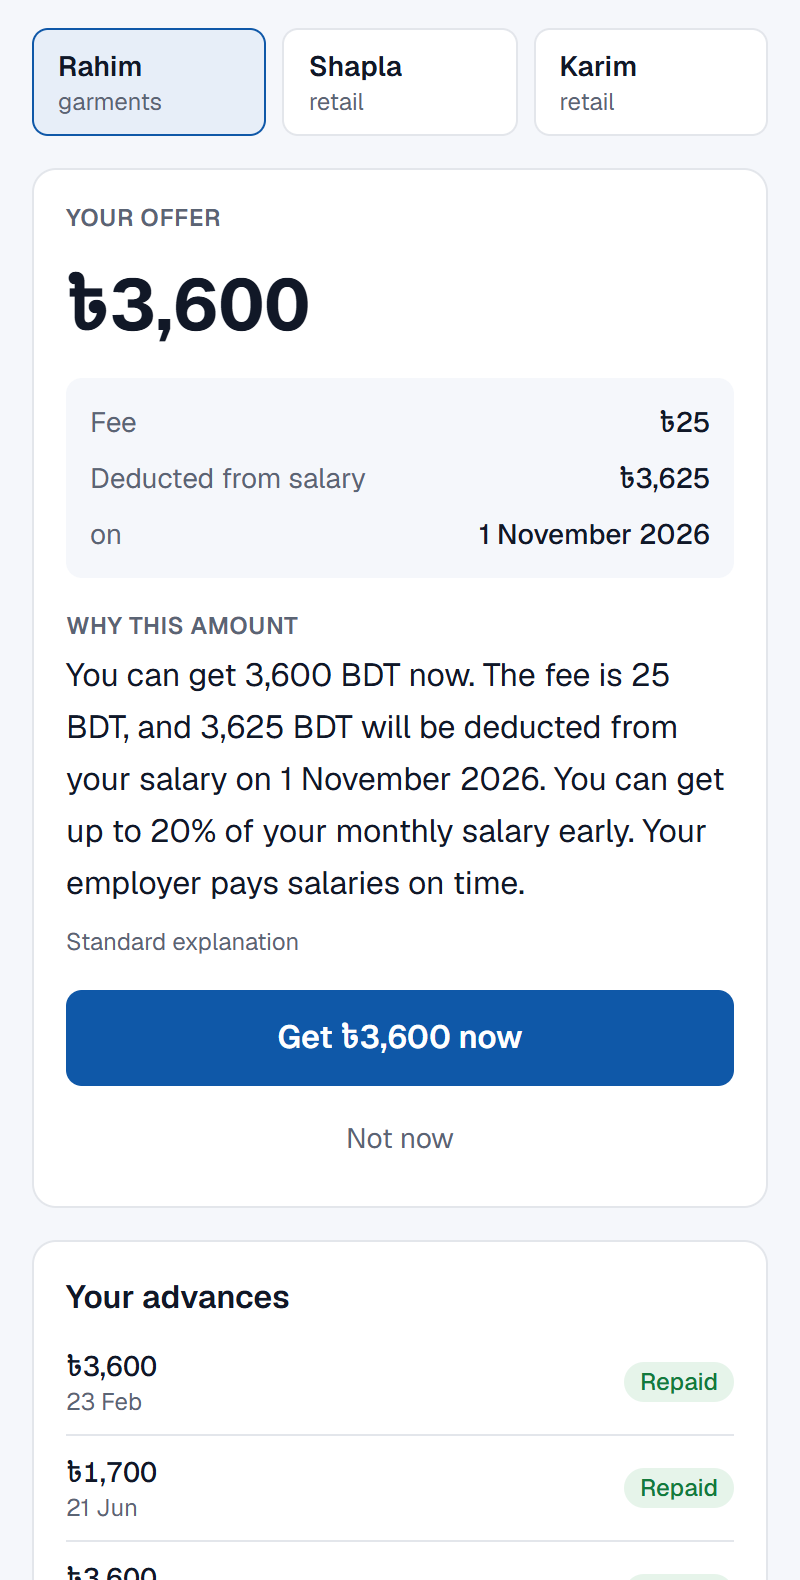
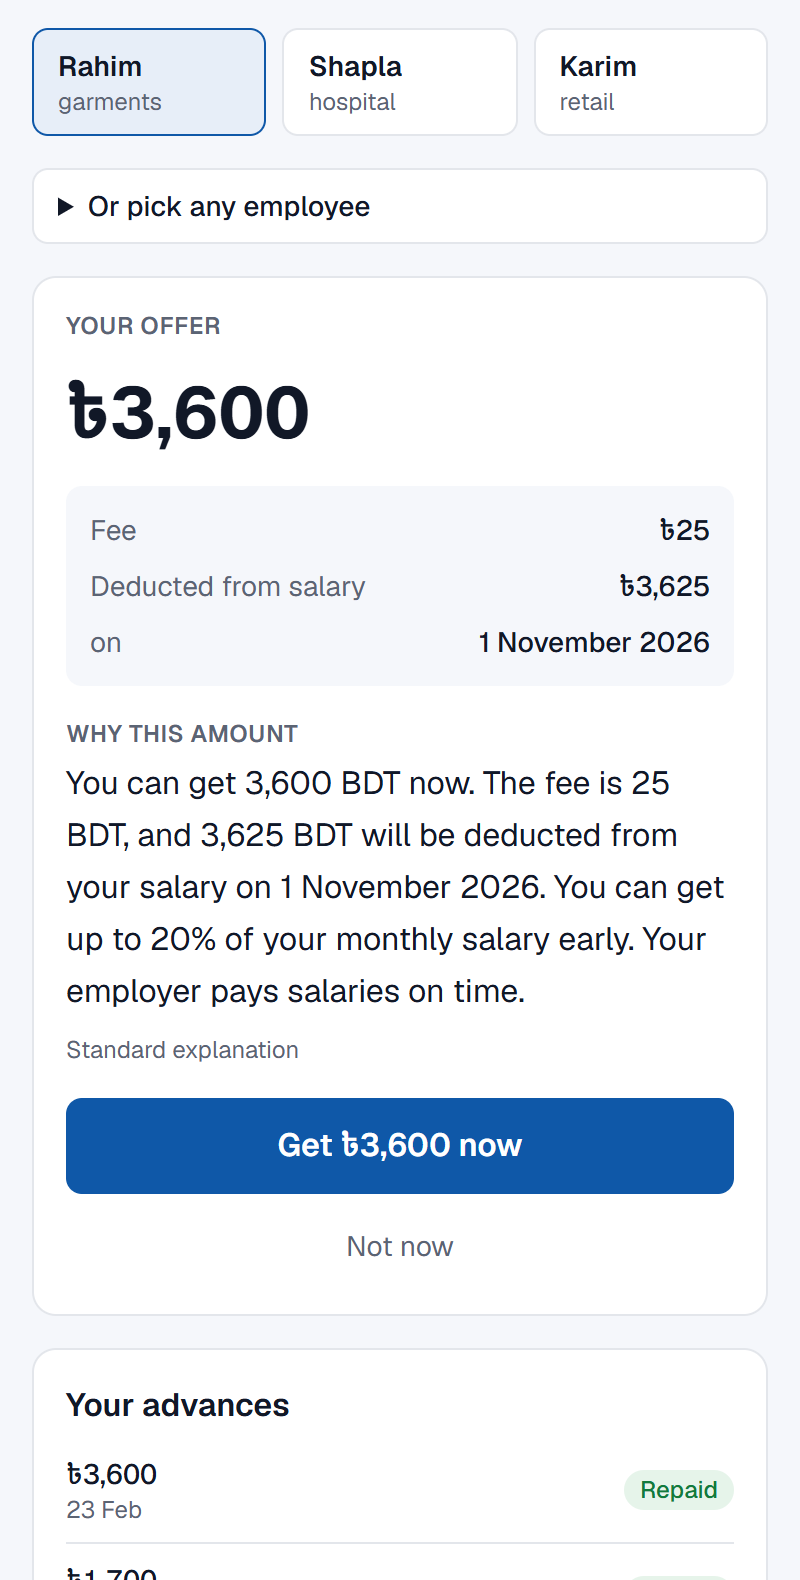
docs: final screenshots (HR confirmation, any-employee picker, loan-only money flow)
Prompt: "screenshot gula abar nao, and submission er preparation nibo"

diff --git a/README.md b/README.md
@@ -12,7 +12,7 @@ plan and sleeps after 15 idle minutes, so the first request can take about a min
 |---|---|---|
 | ![Employee home](docs/screenshots/employee-home.png) | ![Offer](docs/screenshots/employee-offer.png) | ![Bangla offer](docs/screenshots/employee-offer-bn.png) |
 
-| Employer HR: one deduction list | upay ops: Eid surge pushes need above the pool |
+| Employer HR: confirm advances, one deduction list | upay ops: Eid surge pushes need above the pool |
 |---|---|
 | ![Employer HR](docs/screenshots/employer-hr.png) | ![Ops](docs/screenshots/ops-eid-surge.png) |
 
